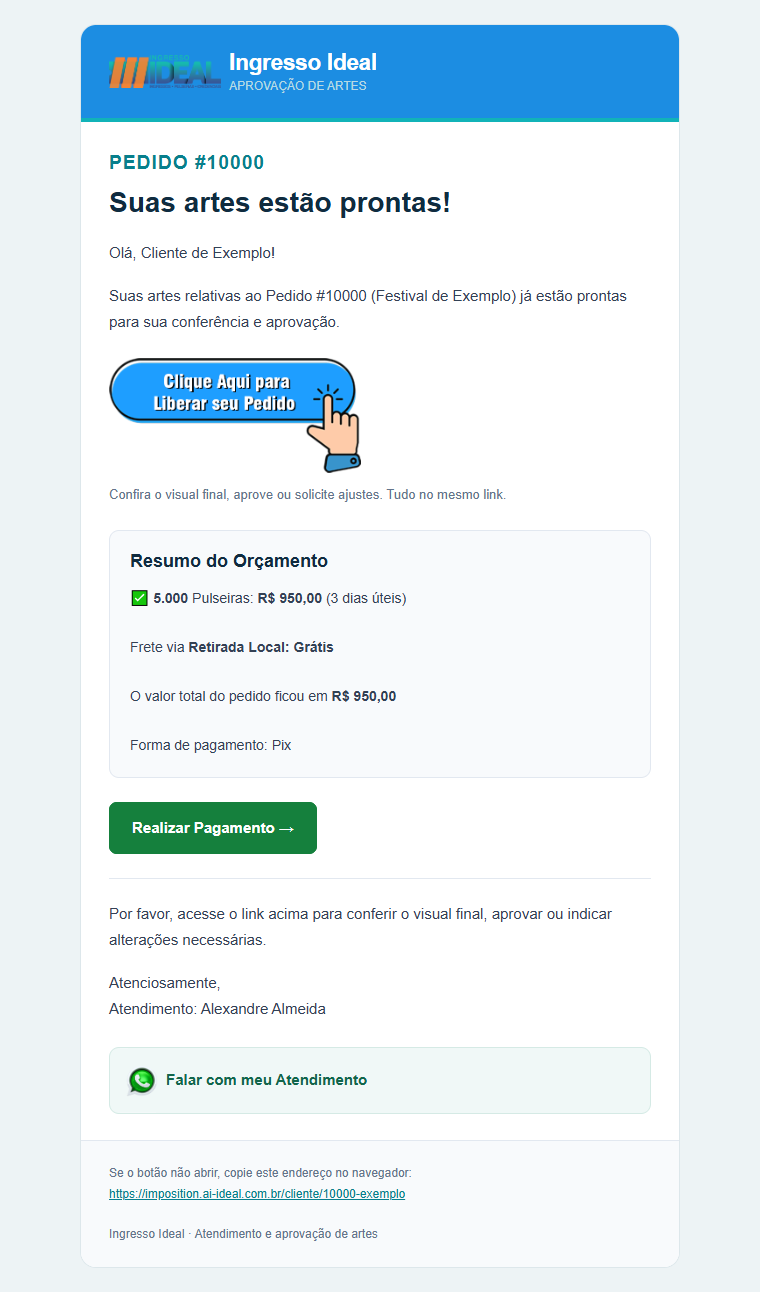
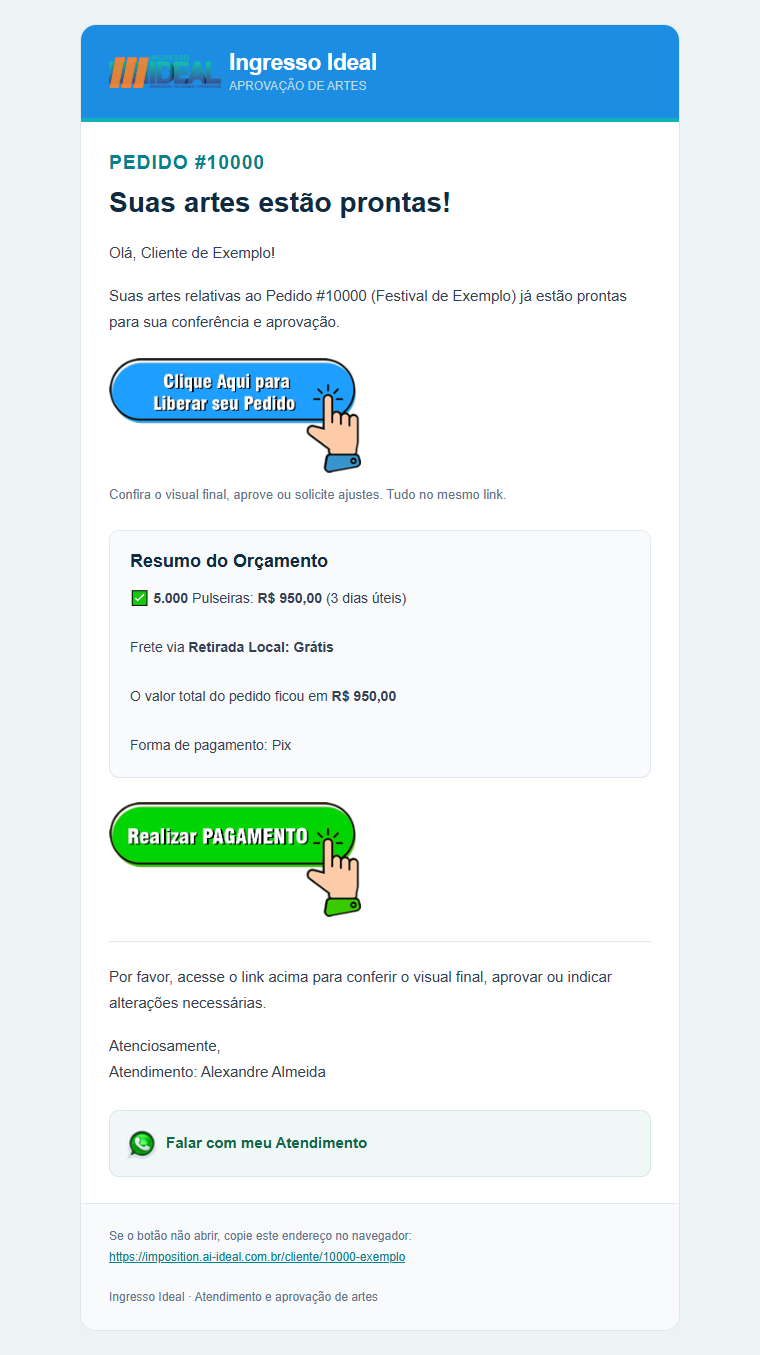
fix(email): substituir botao de pagamento pela imagem fornecida

diff --git a/supabase/functions/_compartilhado/email_artes_layout.ts b/supabase/functions/_compartilhado/email_artes_layout.ts
@@ -3,6 +3,7 @@ const WHATSAPP = "555195343478"; // Mesmo atendimento de frontend/cliente-entreg
 const LOGO_EMPRESA = "https://vwbtitjlpelrcnsytzqw.supabase.co/storage/v1/object/public/app-imagens/1785672791278_logo_ideal_2026.jpg";
 const LOGO_WHATSAPP = "https://vwbtitjlpelrcnsytzqw.supabase.co/storage/v1/object/public/app-imagens/1787694554509_Whatsapp.png";
 const IMAGEM_APROVACAO = "https://vwbtitjlpelrcnsytzqw.supabase.co/storage/v1/object/public/app-imagens/1788965455974_Email.png";
+const IMAGEM_PAGAMENTO = "https://vwbtitjlpelrcnsytzqw.supabase.co/storage/v1/object/public/app-imagens/1788966314184_pagamento.png";
 const escapar = (s: string) => s.replace(/[&<>"']/g, c => ({ "&": "&amp;", "<": "&lt;", ">": "&gt;", '"': "&quot;", "'": "&#39;" }[c]!));
 
 function linhaHtml(linha: string): string {
@@ -68,7 +69,7 @@ ${link ? `<a href="${escapar(destino)}" style="display:block;max-width:252px;col
 ${link ? '<p style="margin:12px 0 0;font-size:13px;line-height:1.6;color:#64748b;">Confira o visual final, aprove ou solicite ajustes. Tudo no mesmo link.</p>' : ""}
 </td></tr></table>
 ${resumoHtml ? `<table role="presentation" width="100%" cellpadding="0" cellspacing="0" style="margin-bottom:24px;"><tr><td style="padding:20px;background:#f8fafc;border:1px solid #e2e8f0;border-radius:10px;"><h2 style="margin:0 0 14px;color:#102b3f;font-size:18px;">Resumo do Orçamento</h2><div style="color:#334155;font-size:14px;line-height:1.75;overflow-wrap:anywhere;">${resumoHtml}</div></td></tr></table>` : ""}
-${pagamento ? `<table role="presentation" cellpadding="0" cellspacing="0" style="margin-bottom:24px;"><tr><td align="center" bgcolor="#15803d" style="border-radius:8px;mso-padding-alt:14px 22px;"><a href="${escapar(pagamento)}" style="display:inline-block;padding:14px 22px;border:1px solid #15803d;border-radius:8px;font-size:15px;font-weight:bold;line-height:22px;color:#fff;text-decoration:none;">Realizar Pagamento &rarr;</a></td></tr></table>` : ""}
+${pagamento ? `<a href="${escapar(pagamento)}" style="display:block;max-width:252px;margin-bottom:24px;color:#15803d;text-decoration:none;"><img src="${IMAGEM_PAGAMENTO}" width="252" alt="Realizar Pagamento" style="display:block;width:100%;max-width:252px;height:auto;border:0;"></a>` : ""}
 ${detalhes ? `<div style="border-top:1px solid #e2e8f0;padding-top:22px;">${detalhes}</div>` : ""}
 </td></tr>
 <tr><td style="padding:0 28px 26px;"><table role="presentation" width="100%" cellpadding="0" cellspacing="0"><tr><td style="background:#f0f8f7;border:1px solid #d5eae5;border-radius:10px;"><a href="${escapar(whatsapp)}" style="display:block;padding:16px;color:#12664b;font-size:15px;font-weight:bold;line-height:32px;text-decoration:none;"><img src="${LOGO_WHATSAPP}" width="32" height="32" alt="WhatsApp" style="vertical-align:middle;border:0;margin-right:8px;">Falar com meu Atendimento</a></td></tr></table></td></tr>

diff --git a/docs/registro-2026-09-09-email-imagem-pagamento.md b/docs/registro-2026-09-09-email-imagem-pagamento.md
@@ -1,0 +1,19 @@
+# Imagem clicável de pagamento no e-mail — 09/09/2026
+
+- Substituído o botão Realizar Pagamento pela imagem fornecida:
+  `app-imagens/1788966314184_pagamento.png`, no Storage público do projeto.
+- A imagem inteira abre o link validado do próprio pedido com `#pagamento`,
+  preservando a navegação para a aba Pagar. Não cria nem registra pagamentos.
+- Largura máxima de 252 px, igual à imagem de aprovação, altura proporcional e
+  texto alternativo Realizar Pagamento. URL mantida na versão de texto do e-mail.
+- Preservados cabeçalho #1c8de2, tamanhos, orçamento, assinatura e WhatsApp.
+
+Validação: oito testes existentes de layout/MIME passaram. Imagem pública HTTP
+200. Prévias em 760 e 390 px com imagens carregadas, sem transbordamento, largura
+252 px e destino da imagem conferido para a aba Pagar de um pedido sintético.
+Antes do deploy, os 13 arquivos TypeScript remotos coincidiam com a base Git.
+Sem envio real nos testes, escrita em banco ou alteração financeira.
+
+Publicação restrita ao template da função `painel`, projeto Supabase
+`vwbtitjlpelrcnsytzqw`. Recuperação: reverter este commit e republicar a função.
+Capturas atualizadas em `design/email-aprovacao-*.png`.
